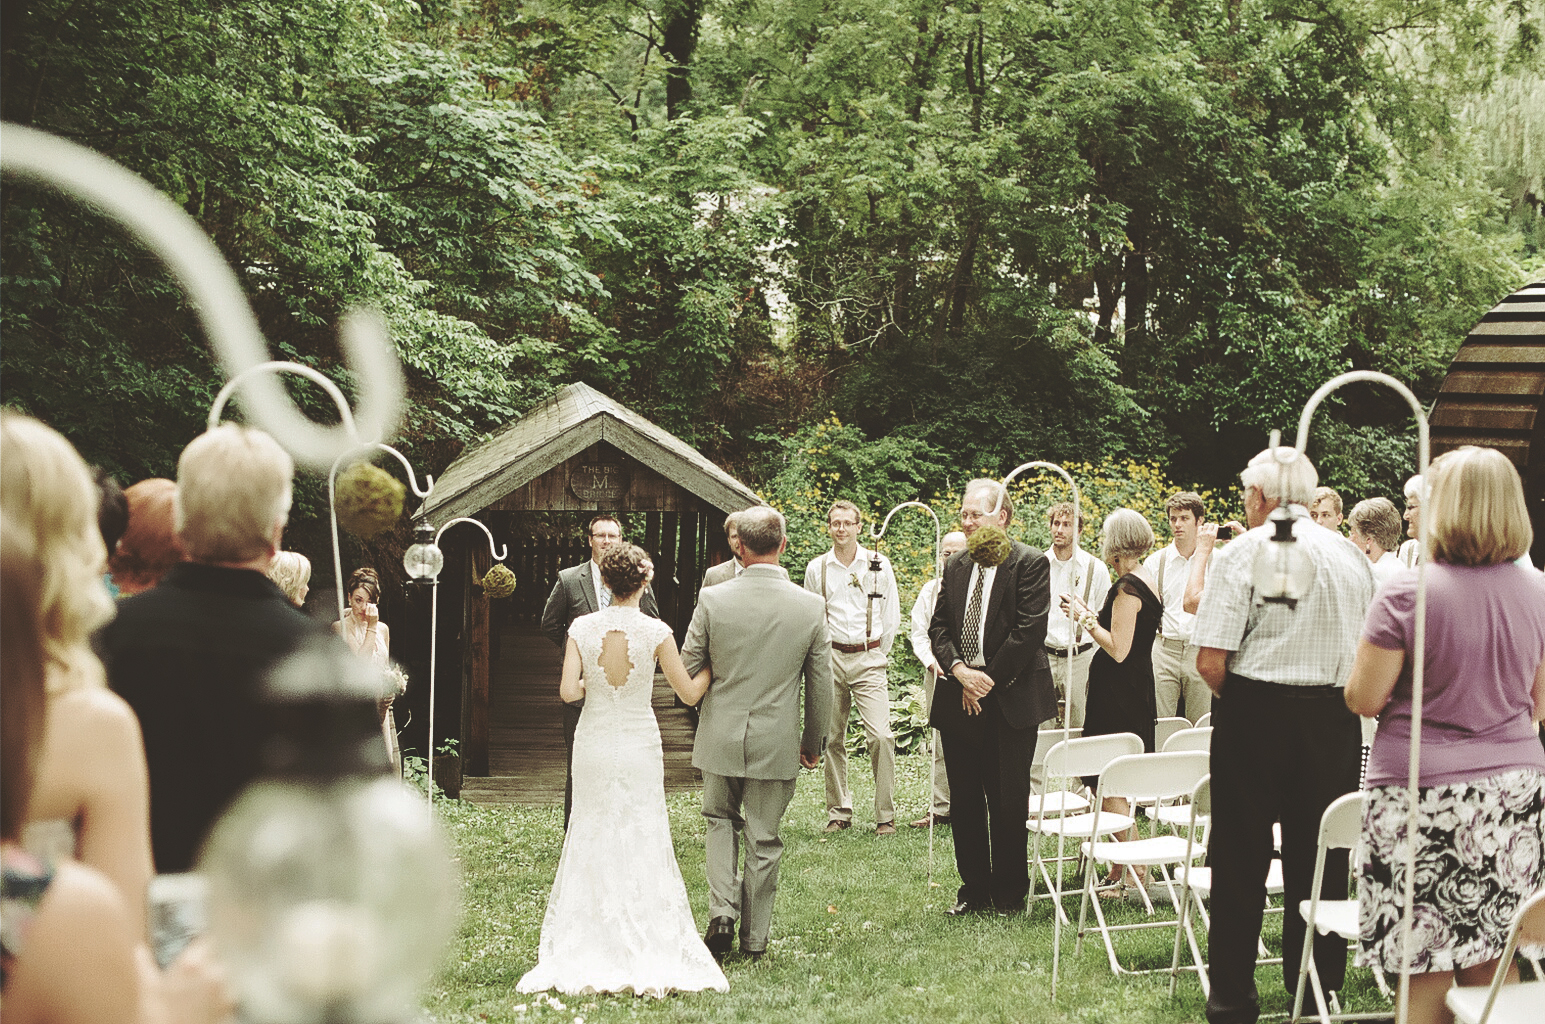
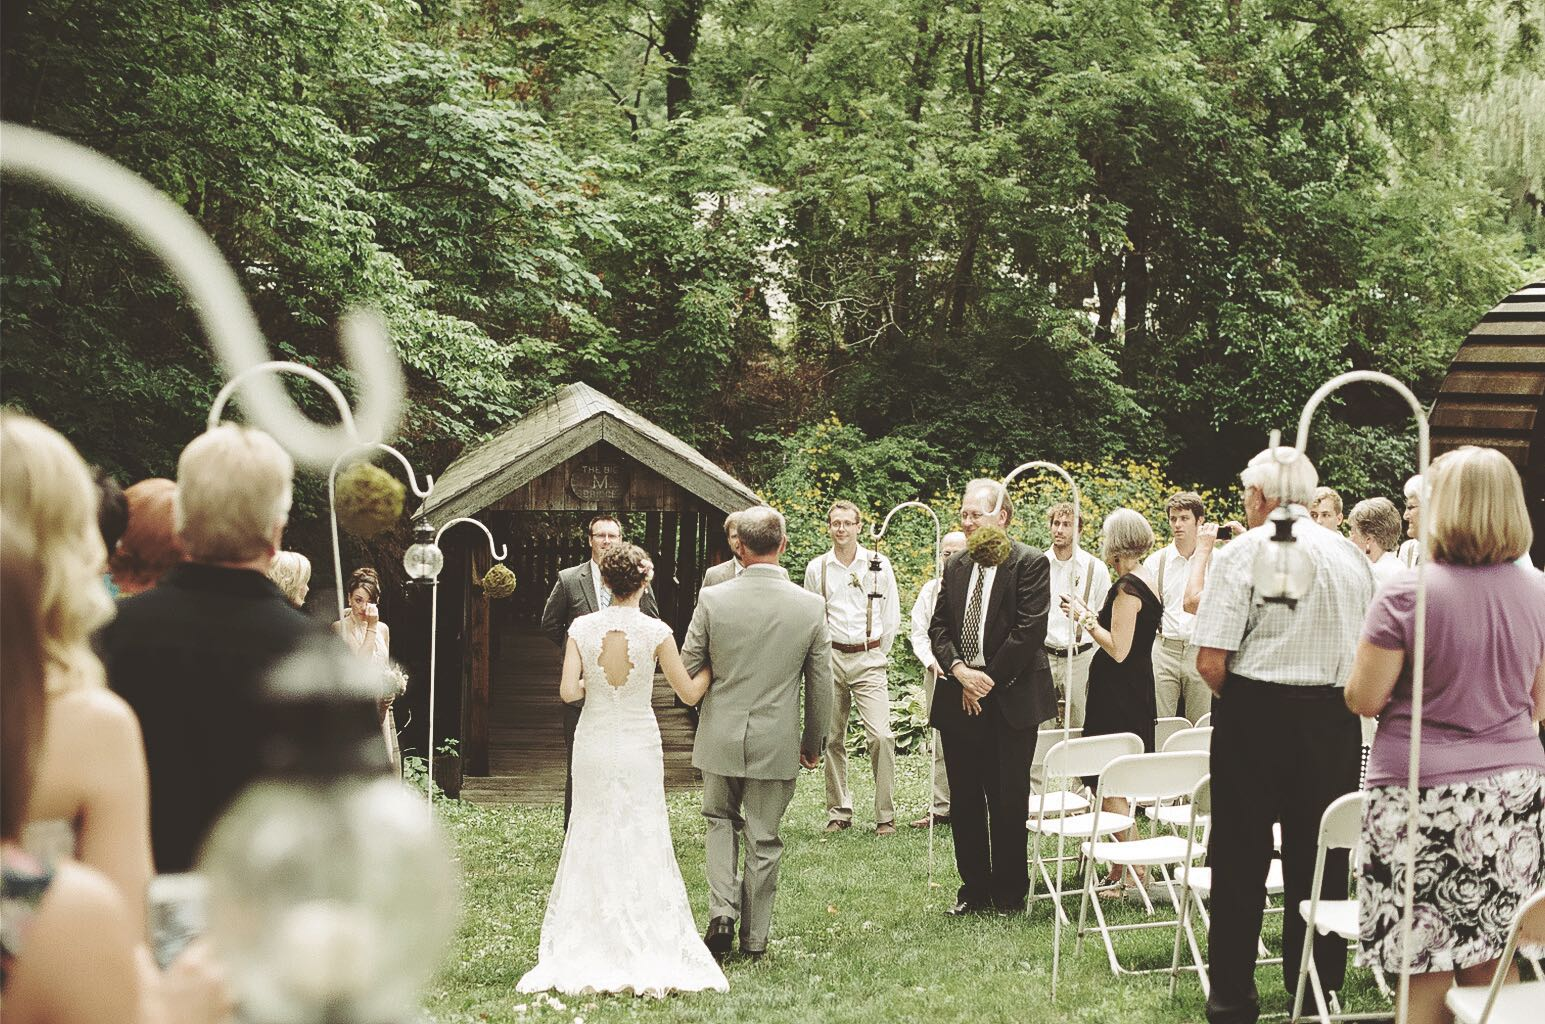
Making the files smaller

Changed region(s): [[0.7767, 0.4688, 0.8078, 0.5], [0.7146, 0.4375, 0.7456, 0.4688], [0.6524, 0.4688, 0.6835, 0.5]]

diff --git a/_sass/_homepage.scss b/_sass/_homepage.scss
@@ -128,7 +128,7 @@
   border-color: $color-teal;
 
   &::before {
-    background-image: url(../assets/images/service-item-photo.png);
+    background-image: url(../assets/images/service-item-photo.jpg);
   }
 }
 
@@ -136,7 +136,7 @@
   border-color: $color-red;
 
   &::before {
-    background-image: url(../assets/images/service-item-video.png);
+    background-image: url(../assets/images/service-item-video.jpg);
   }
 }
 
@@ -144,7 +144,7 @@
   border-color: $color-yellow;
 
   &::before {
-    background-image: url(../assets/images/service-item-dj.png);
+    background-image: url(../assets/images/service-item-dj.jpg);
   }
 }
 

diff --git a/_includes/head.html b/_includes/head.html
@@ -11,4 +11,5 @@
   <link rel="stylesheet" href="{{ "/css/main.css" | prepend: site.baseurl }}">
   <link rel="canonical" href="{{ page.url | replace:'index.html','' | prepend: site.baseurl | prepend: site.url }}">
   <link rel="alternate" type="application/rss+xml" title="{{ site.title }}" href="{{ "/feed.xml" | prepend: site.baseurl | prepend: site.url }}">
+  <link rel="shortcut icon" href="/assets/images/favicon.png">
 </head>

diff --git a/video.md b/video.md
@@ -25,9 +25,9 @@ permalink: /video/
 
 <div class="page-body">
   <div class="content-wrapper">
-    <h2 class="page-body__title">Morbi fringilla convallis sapien</h2>
+    <h2 class="page-body__title">Storytelling via video and motion grahpics</h2>
     <p class="page-body__copy">
-      If a picture is worth a thousand words, a video is worth, well, a lot more. Kevin has produced in-agency work for clients like AMC, Marriott, Serta, mobile app animation reels, editorial and culture videos, and content for social media. Full-service capabilities include concepting, shooting, editing, and color grading.
+      If a picture is worth a thousand words, a video is worth, well, many more. Kevin has produced in-agency work for clients like AMC, Marriott, Serta, mobile app animation reels, editorial and culture videos, and content for social media. Full-service capabilities include concepting, shooting, editing, and color grading.
     </p>
     <div class="page-body__contact">
       <h3 class="page-body__contact-heading">Get in touch with video inquiries</h3>

diff --git a/photo.md b/photo.md
@@ -35,7 +35,7 @@ permalink: /photo/
 
 <div class="page-body">
   <div class="content-wrapper">
-    <h2 class="page-body__title">Morbi fringilla convallis sapien</h2>
+    <h2 class="page-body__title">A history of film and digital</h2>
     <p class="page-body__copy">
       Kevin started shooting with his dad's Nikon film camera in the Summer of 2007—the rest is history. He founded VAMP (Vintage Analog Manual Photographers), a student organization at the University of Illinois at Urbana-Champaign. Since graduating, current students and alum continue the film tradition.
     </p>

diff --git a/music.md b/music.md
@@ -25,7 +25,7 @@ permalink: /music/
 
 <div class="page-body">
   <div class="content-wrapper">
-    <h2 class="page-body__title">Morbi fringilla convallis sapien</h2>
+    <h2 class="page-body__title">Flim flam wobble robble</h2>
     <p class="page-body__copy">
       Kevin’s work as a DJ is tellingly influenced by the smooth jazz he grew up listening to. The bassline never strays far from his selections. Witnessing a KJH set entails a movement of body and soul from mood-setting jams to upbeat soul, funk, disco, and house. Maybe a little sax here and there too.
     </p>
